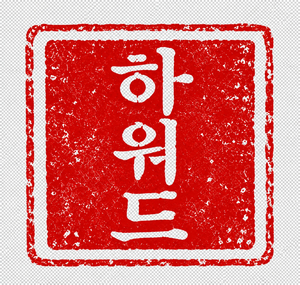
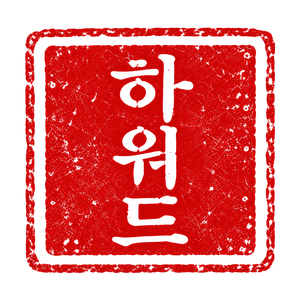
howardworld-web: 낙관 이미지 교체(투명 배경) + 책 쪽수 한자 10+ 지원
- seal-howard.png를 배경 투명 버전으로 교체.
- 쪽수 10 초과도 한자로(十一·十二·十三 …).

diff --git a/howardworld-web/public/index.html b/howardworld-web/public/index.html
@@ -155,6 +155,7 @@
 
   // ---------- book page rendering (port of BookPage) ----------
   var HAN = ["", "一", "二", "三", "四", "五", "六", "七", "八", "九", "十"];
+  function hanNum(n) { if (n <= 10) return HAN[n] || String(n); if (n < 20) return "十" + HAN[n - 10]; var t = Math.floor(n / 10), o = n % 10; return HAN[t] + "十" + (o ? HAN[o] : ""); }
   function pageWrap(shade, inner) {
     return '<div style="position:relative;width:100%;height:100%;container-type:size;background-color:#f3ead6;background-image:' + shade + ',radial-gradient(rgba(120,95,50,.07) 1px,transparent 1.5px);background-size:100% 100%,7px 9px;font-family:\'Nanum Myeongjo\',serif;color:#1c1a17;overflow:hidden;box-sizing:border-box;word-break:keep-all">' + inner + '</div>';
   }
@@ -200,7 +201,7 @@
         '<div style="display:flex;flex-direction:column;align-items:center">' + endLinks + endSoon + '</div>' +
       '</div>';
     }
-    var numLabel = page.num ? (HAN[page.num] || String(page.num)) : "";
+    var numLabel = page.num ? hanNum(page.num) : "";
     var framed = '<div style="height:100%;padding:5cqw;box-sizing:border-box"><div style="position:relative;height:100%;border:2px solid #1c1a17;box-shadow:inset 0 0 0 3px #f3ead6,inset 0 0 0 4px #1c1a17;padding:6cqw 6cqw 4cqw;box-sizing:border-box;display:flex;flex-direction:column;gap:3cqh">' +
       body + '<div style="text-align:center;font-family:\'Song Myung\',serif;font-size:clamp(11px,2.6cqw,14px);color:#4a4236">' + esc(numLabel) + '</div>' +
     '</div></div>';
